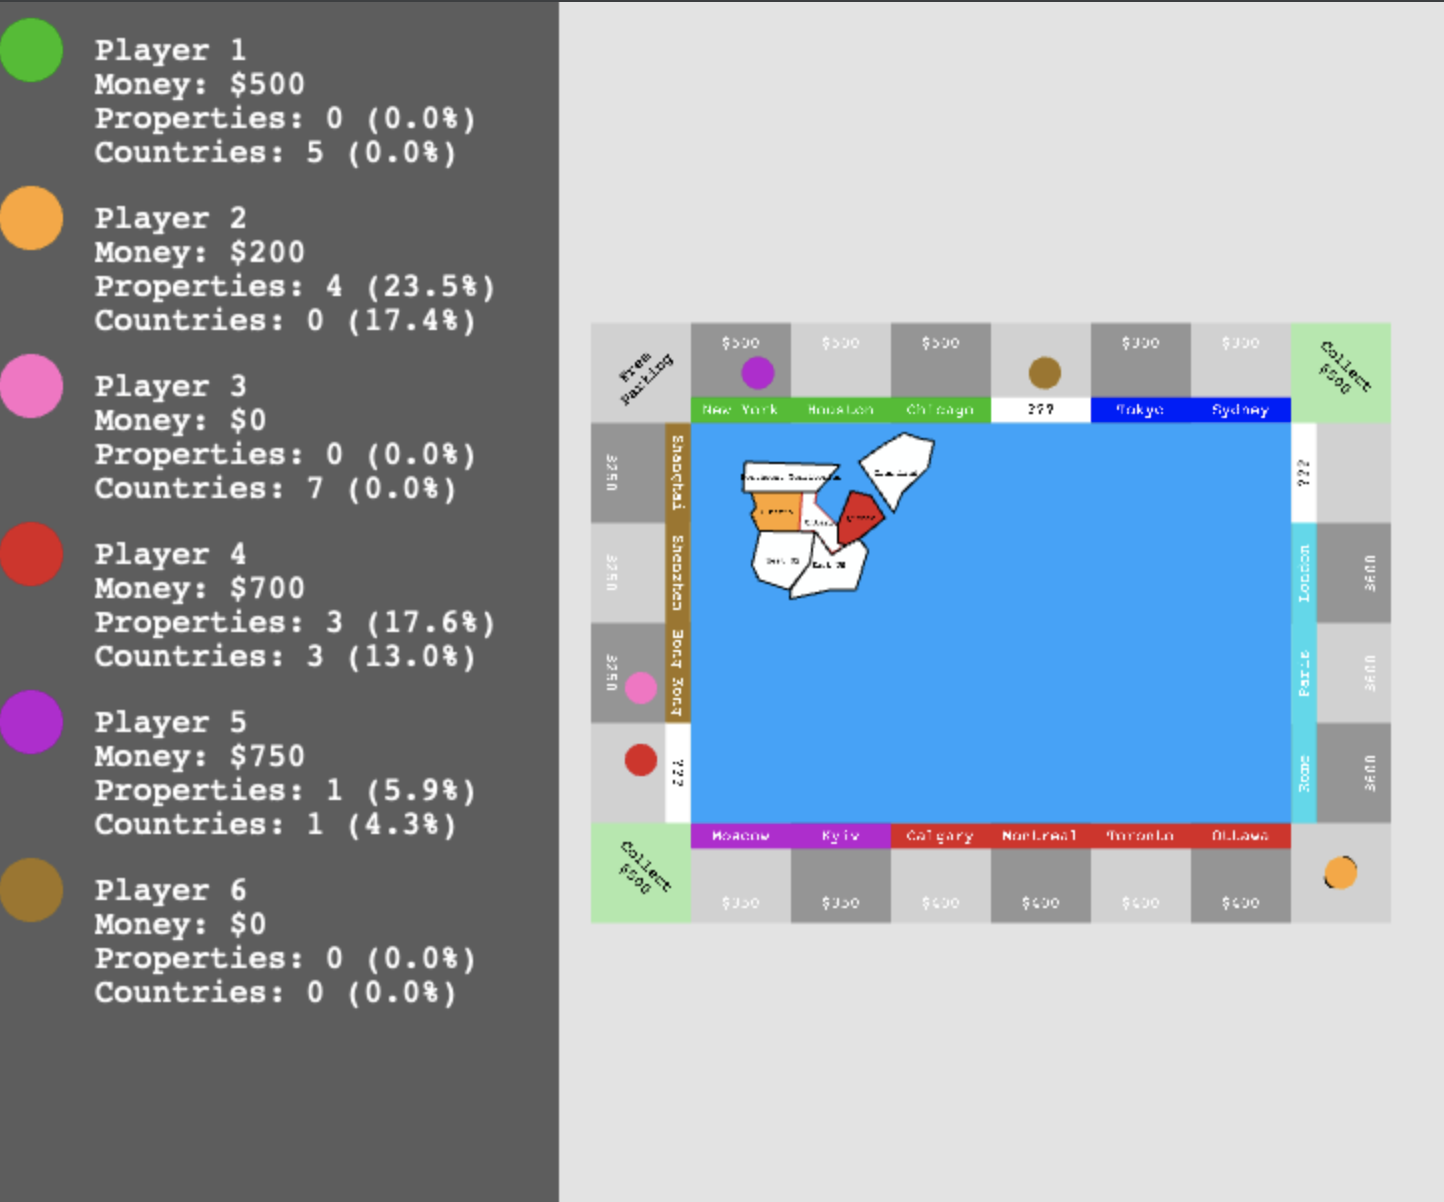
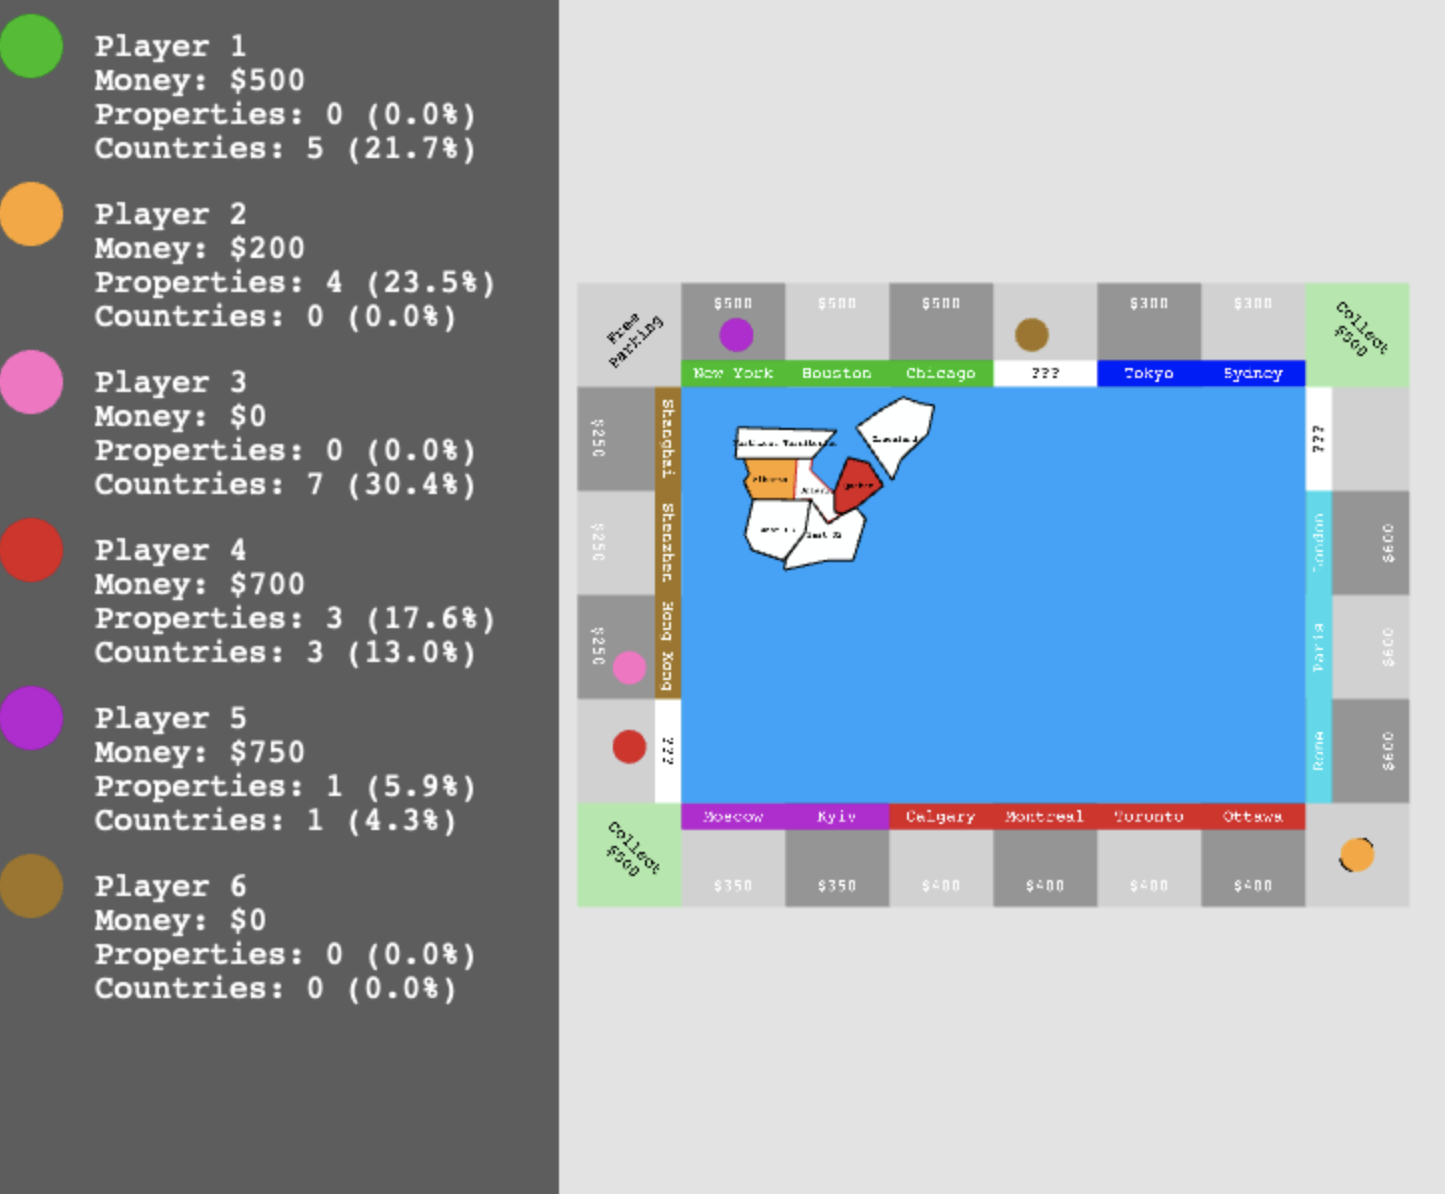
Fix sloppy mistake regarding text UI

diff --git a/game.js b/game.js
@@ -211,7 +211,7 @@ class MainScene extends Phaser.Scene {
             let countries = that.player_countries[player];
             
             let properties_percentage = properties / that.TOTAL_PROPERTIES;
-            let countries_percentage = properties / that.TOTAL_COUNTRIES;
+            let countries_percentage = countries / that.TOTAL_COUNTRIES;
             
             let text = 
                 `Player ${player+1}\nMoney: \$${money}\nProperties: ${properties} (${(properties_percentage*100).toFixed(1)}%)\nCountries: ${countries} (${(countries_percentage*100).toFixed(1)}%)`;
